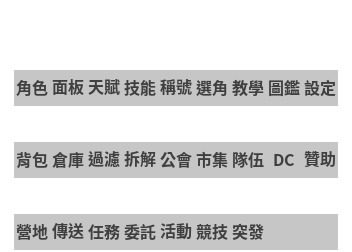
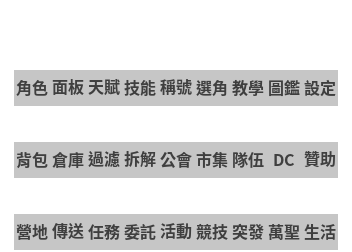
測試加上 Paper API

Changed region(s): [[0.75, 0.8889, 0.9688, 0.9722]]

diff --git a/src/main/java/tw/exilecore/life/LifeRaftMenu.java b/src/main/java/tw/exilecore/life/LifeRaftMenu.java
@@ -1,0 +1,283 @@
+package tw.exilecore.life;
+
+import org.bukkit.Material;
+import org.bukkit.OfflinePlayer;
+import org.bukkit.Sound;
+import org.bukkit.entity.Player;
+import org.bukkit.event.inventory.ClickType;
+import org.bukkit.event.inventory.InventoryClickEvent;
+import org.bukkit.inventory.ItemStack;
+import org.bukkit.inventory.meta.SkullMeta;
+import tw.exilecore.ExileCore;
+import tw.exilecore.gui.Menu;
+import tw.exilecore.item.ItemRenderer;
+
+import java.util.ArrayList;
+import java.util.HashMap;
+import java.util.List;
+import java.util.Map;
+import java.util.UUID;
+
+/**
+ * 木筏管理（2026-10-16）：共用成員（加、拿掉）、現在在筏上的人（加成員、請離開）、可以去的筏（自己的、共用的）、
+ * 線上的人（邀請、加成員）。跟 /sea invite／visit／kick／member 做的事一樣，只是不用打指令。
+ */
+final class LifeRaftMenu extends Menu {
+
+    private static final int SLOT_INFO = 4;
+    private static final int ROW_MEMBERS = 9;
+    private static final int ROW_CREW = 18;
+    private static final int ROW_RAFTS = 27;
+    private static final int ROW_ONLINE = 36;
+    private static final int PER_ROW = 8;
+    private static final int MAX_MEMBERS = 8;
+
+    private final LifeService service;
+    private final Map<Integer, Runnable> left = new HashMap<>();
+    private final Map<Integer, Runnable> right = new HashMap<>();
+    private final Map<Integer, Runnable> shiftLeft = new HashMap<>();
+    private final Map<Integer, Runnable> shiftRight = new HashMap<>();
+    private int page;
+
+    LifeRaftMenu(final ExileCore plugin, final Player player, final LifeService service) {
+        super(plugin, player, 6, "<dark_gray>木筏管理");
+        this.service = service;
+    }
+
+    private String color() {
+        return service.config().color();
+    }
+
+    private static ItemStack head(final OfflinePlayer owner, final String name, final List<String> lore) {
+        final ItemStack stack = icon(Material.PLAYER_HEAD, name, lore);
+        stack.editMeta(SkullMeta.class, meta -> meta.setOwningPlayer(owner));
+        return stack;
+    }
+
+    private void report(final String problem, final String done) {
+        if (problem != null) {
+            player.sendMessage(plugin.text().prefixed("<red>" + ItemRenderer.escape(problem)));
+            player.playSound(player.getLocation(), Sound.BLOCK_NOTE_BLOCK_BASS, 0.6f, 0.8f);
+        } else if (done != null) {
+            player.sendMessage(plugin.text().prefixed("<green>" + ItemRenderer.escape(done)));
+            player.playSound(player.getLocation(), Sound.ENTITY_EXPERIENCE_ORB_PICKUP, 0.6f, 1.4f);
+        }
+    }
+
+    @Override
+    protected void draw() {
+        frame();
+        left.clear();
+        right.clear();
+        shiftLeft.clear();
+        shiftRight.clear();
+        final LifeService.Profile profile = service.profile(player);
+        final int own = profile == null ? -1 : profile.plot;
+        final int here = service.activePlot(player);
+        final boolean onSea = service.world() != null && service.world().equals(player.getWorld());
+        final boolean canManageHere = onSea && here >= 0 && service.canBuild(player, profile, here);
+        final Map<UUID, String> members = own < 0 ? Map.of() : service.membersOf(own);
+
+        // ---- 最上面：這塊筏 ----
+        final List<String> info = new ArrayList<>();
+        if (own < 0) {
+            info.add("<gray>你還沒有木筏：先到「前往我的木筏」去一次");
+        } else {
+            final int size = service.config().raftSize(service.plotLevel(own));
+            info.add("<gray>你的木筏：<white>" + size + "×" + size);
+            info.add("<gray>共用成員 <white>" + members.size() + "</white>／" + MAX_MEMBERS);
+        }
+        if (onSea && here >= 0) {
+            info.add("<gray>現在在 <white>" + ItemRenderer.escape(service.ownerName(here)) + "</white> 的木筏上"
+                    + (here == own ? "" : canManageHere ? " <dark_gray>（你是共用成員）" : " <dark_gray>（訪客）"));
+            info.add("<gray>筏上 <white>" + service.crewOn(here).size() + "</white> 個人");
+        } else {
+            info.add("<dark_gray>你現在不在海上");
+        }
+        info.add("");
+        info.add("<gray>共用成員：可以蓋、拆、收網、種田、掌舵、邀請別人");
+        info.add("<gray>訪客：只能看、撈東西，不能動筏");
+        set(SLOT_INFO, icon(Material.OAK_BOAT, "<" + color() + ">木筏管理", info));
+
+        // ---- 共用成員 ----
+        set(ROW_MEMBERS, rowLabel(Material.WRITABLE_BOOK, "共用成員", "你的木筏的共用成員（最多 " + MAX_MEMBERS + " 個）",
+                "左鍵：去他現在待的筏", "Shift＋右鍵：拿掉"));
+        int slot = ROW_MEMBERS + 1;
+        for (final Map.Entry<UUID, String> member : members.entrySet()) {
+            if (slot >= ROW_MEMBERS + 1 + PER_ROW) {
+                break;
+            }
+            final UUID id = member.getKey();
+            final String name = member.getValue();
+            final Player online = plugin.getServer().getPlayer(id);
+            set(slot, head(plugin.getServer().getOfflinePlayer(id), "<white>" + ItemRenderer.escape(name),
+                    List.of(online == null ? "<dark_gray>離線" : "<green>線上", "", "<yellow>左鍵：去他現在待的筏", "<red>Shift＋右鍵：拿掉共用成員")));
+            left.put(slot, () -> {
+                player.closeInventory();
+                report(service.visit(player, id, name), null);
+            });
+            shiftRight.put(slot, () -> {
+                final String problem = service.removeMember(player, id, name);
+                report(problem, problem == null ? name + " 不再是共用成員了" : null);
+                if (problem == null && online != null) {
+                    online.sendMessage(plugin.text().prefixed("<gray>" + ItemRenderer.escape(player.getName()) + " 把你從木筏的共用成員拿掉了"));
+                }
+                redraw();
+            });
+            slot++;
+        }
+        if (members.isEmpty()) {
+            set(ROW_MEMBERS + 1, icon(Material.LIGHT_GRAY_STAINED_GLASS_PANE, "<gray>還沒有共用成員", "<gray>在下面「線上的人」Shift＋左鍵加"));
+        }
+
+        // ---- 現在在筏上的人 ----
+        set(ROW_CREW, rowLabel(Material.SPYGLASS, "在這塊筏上", "現在跟你在同一塊筏上的人",
+                "Shift＋左鍵：加成共用成員（筏主）", "Shift＋右鍵：請他離開（筏主、共用成員）"));
+        slot = ROW_CREW + 1;
+        if (onSea && here >= 0) {
+            for (final Player other : service.crewOn(here)) {
+                if (other.equals(player) || slot >= ROW_CREW + 1 + PER_ROW) {
+                    continue;
+                }
+                final LifeService.Profile otherProfile = service.profile(other);
+                final boolean ownerOfHere = otherProfile != null && otherProfile.plot == here;
+                final boolean member = service.membersOf(here).containsKey(other.getUniqueId());
+                final List<String> lore = new ArrayList<>();
+                lore.add(ownerOfHere ? "<" + color() + ">筏主" : member ? "<green>共用成員" : "<gray>訪客");
+                lore.add("");
+                if (here == own && !ownerOfHere && !member) {
+                    lore.add("<yellow>Shift＋左鍵：加成共用成員");
+                    shiftLeft.put(slot, () -> addMember(other));
+                }
+                if (canManageHere && !ownerOfHere) {
+                    lore.add("<red>Shift＋右鍵：請他離開這塊筏");
+                    shiftRight.put(slot, () -> {
+                        report(service.kick(player, other), other.getName() + " 離開這塊筏了");
+                        redraw();
+                    });
+                }
+                set(slot, head(other, "<white>" + ItemRenderer.escape(other.getName()), lore));
+                slot++;
+            }
+        }
+        if (slot == ROW_CREW + 1) {
+            set(slot, icon(Material.LIGHT_GRAY_STAINED_GLASS_PANE, "<gray>沒有別人", onSea ? "<gray>筏上只有你" : "<gray>你現在不在海上"));
+        }
+
+        // ---- 可以去的筏 ----
+        set(ROW_RAFTS, rowLabel(Material.COMPASS, "可以去的筏", "自己的、你是共用成員的", "左鍵：前往"));
+        slot = ROW_RAFTS + 1;
+        set(slot, icon(Material.OAK_BOAT, "<#7fd4ff>我的木筏", own < 0 ? "<gray>還沒去過：左鍵建立" : "<gray>回自己的筏", "", "<yellow>左鍵：前往"));
+        left.put(slot, () -> {
+            player.closeInventory();
+            report(service.travel(player, false), null);
+        });
+        slot++;
+        for (final int plot : service.memberOf(player.getUniqueId())) {
+            if (slot >= ROW_RAFTS + 1 + PER_ROW) {
+                break;
+            }
+            final UUID owner = service.ownerOf(plot);
+            if (owner == null) {
+                continue;
+            }
+            final String name = service.ownerName(plot);
+            final int size = service.config().raftSize(service.plotLevel(plot));
+            set(slot, head(plugin.getServer().getOfflinePlayer(owner), "<white>" + ItemRenderer.escape(name) + " 的木筏",
+                    List.of("<gray>" + size + "×" + size + "；你是共用成員", "", "<yellow>左鍵：前往")));
+            left.put(slot, () -> {
+                player.closeInventory();
+                report(service.travelTo(player, plot, null), null);
+            });
+            slot++;
+        }
+
+        // ---- 線上的人（邀請、加成員） ----
+        final List<Player> online = new ArrayList<>();
+        for (final Player other : plugin.getServer().getOnlinePlayers()) {
+            if (!other.equals(player) && service.canEnter(other)) {
+                online.add(other);
+            }
+        }
+        online.sort((a, b) -> a.getName().compareToIgnoreCase(b.getName()));
+        final int pages = Math.max(1, (online.size() + PER_ROW - 1) / PER_ROW);
+        page = Math.max(0, Math.min(page, pages - 1));
+        set(ROW_ONLINE, rowLabel(Material.PLAYER_HEAD, "線上的人", "能進" + service.config().name() + "的線上玩家",
+                "左鍵：邀請到你待的這塊筏", "Shift＋左鍵：加成你的木筏的共用成員"));
+        slot = ROW_ONLINE + 1;
+        for (int i = page * PER_ROW; i < Math.min(online.size(), (page + 1) * PER_ROW); i++) {
+            final Player other = online.get(i);
+            final boolean member = members.containsKey(other.getUniqueId());
+            final List<String> lore = new ArrayList<>();
+            if (member) {
+                lore.add("<green>已經是你的共用成員");
+            }
+            lore.add("");
+            if (canManageHere) {
+                lore.add("<yellow>左鍵：邀請到這塊筏");
+                left.put(slot, () -> report(service.invite(player, other), "邀請送出了：" + other.getName() + " 點訊息裡的 [前往] 就會過來"));
+            } else {
+                lore.add("<dark_gray>要在自己的筏（或共用的筏）上才能邀請");
+            }
+            if (!member && own >= 0) {
+                lore.add("<yellow>Shift＋左鍵：加成共用成員");
+                shiftLeft.put(slot, () -> addMember(other));
+            }
+            set(slot, head(other, "<white>" + ItemRenderer.escape(other.getName()), lore));
+            slot++;
+        }
+        if (online.isEmpty()) {
+            set(ROW_ONLINE + 1, icon(Material.LIGHT_GRAY_STAINED_GLASS_PANE, "<gray>沒有別人在線上"));
+        }
+        if (pages > 1) {
+            set(SLOT_PREV, pageButton(false, page, pages));
+            set(SLOT_NEXT, pageButton(true, page, pages));
+        }
+        set(SLOT_BACK, backButton(service.config().name()));
+        set(SLOT_HELP, helpButton(List.of(
+                "<gray>同樣的事也可以打指令：",
+                "<gray>/sea invite 玩家　邀請別人來你待的筏",
+                "<gray>/sea visit 玩家　去隊友、共用、邀請你的人的筏",
+                "<gray>/sea kick 玩家　請人離開這塊筏",
+                "<gray>/sea member add|remove 玩家　共用成員",
+                "<gray>/sea members　列出共用成員",
+                "<gray>同一隊的人可以直接去彼此的筏")));
+        set(SLOT_CLOSE_BAR, closeButton());
+    }
+
+    private void addMember(final Player other) {
+        final String problem = service.addMember(player, other.getUniqueId(), other.getName());
+        report(problem, problem == null ? other.getName() + " 成了你的木筏的共用成員：可以蓋、拆、收網、種田、掌舵" : null);
+        if (problem == null) {
+            other.sendMessage(plugin.text().prefixed("<" + color() + ">" + ItemRenderer.escape(player.getName())
+                    + " 把你加成木筏的共用成員<gray>（/sea visit " + ItemRenderer.escape(player.getName()) + " 直接去）"));
+        }
+        redraw();
+    }
+
+    @Override
+    protected void onClick(final int slot, final ClickType click, final InventoryClickEvent event) {
+        if (slot == SLOT_CLOSE_BAR) {
+            goBack();
+            return;
+        }
+        if (slot == SLOT_BACK) {
+            new LifeMenu(plugin, player, service).open();
+            return;
+        }
+        if (slot == SLOT_PREV || slot == SLOT_NEXT) {
+            page += slot == SLOT_NEXT ? 1 : -1;
+            redraw();
+            return;
+        }
+        if (!acceptAction(click)) {
+            return;
+        }
+        final Runnable action = click.isShiftClick()
+                ? (click.isLeftClick() ? shiftLeft.get(slot) : click.isRightClick() ? shiftRight.get(slot) : null)
+                : (click.isLeftClick() ? left.get(slot) : click.isRightClick() ? right.get(slot) : null);
+        if (action != null) {
+            action.run();
+        }
+    }
+}

diff --git a/src/main/java/tw/exilecore/life/LifeMenu.java b/src/main/java/tw/exilecore/life/LifeMenu.java
@@ -27,6 +27,7 @@ public final class LifeMenu extends Menu {
     private static final int FIRST_RECIPE = 27;
     private static final int SLOT_DRINK = 22;
     private static final int SLOT_FOOD = 24;
+    private static final int SLOT_RAFT = 20;   // 2026-10-16：木筏管理
 
     private final LifeService service;
     private final Map<Integer, LifeConfig.Recipe> shown = new HashMap<>();
@@ -108,6 +109,9 @@ public final class LifeMenu extends Menu {
         final String food = service.foodStatus(player);
         set(SLOT_FOOD, icon(Material.COOKED_COD, "<#ffb46b>料理", food == null ? "<gray>現在沒有料理的效果" : "<green>" + ItemRenderer.escape(food),
                 "<gray>在筏上的烤爐、料理台做；右鍵吃", "<gray>同時只有一種（吃新的蓋掉舊的）"));
+        final int members = service.profile(player) == null || service.profile(player).plot < 0 ? 0 : service.membersOf(service.profile(player).plot).size();
+        set(SLOT_RAFT, icon(Material.PLAYER_HEAD, "<#f5b942>木筏管理", "<gray>共用成員 <white>" + members + "</white>／8",
+                "<gray>邀請、加共用成員、請人離開、去共用的筏", "", "<yellow>左鍵：打開"));
         set(SLOT_DRINK, icon(Material.POTION, "<#7fd4ff>喝一份淡水", "<gray>有 " + service.material(player, config.freshWater()) + " 份；精力 +"
                 + config.drinkStamina(), "<dark_gray>淡水、料理一天最多回 " + config.dailyRestore() + " 點精力", "", "<yellow>左鍵：喝"));
         for (final LifeConfig.Recipe recipe : config.recipes()) {
@@ -193,6 +197,10 @@ public final class LifeMenu extends Menu {
             if (problem != null) {
                 player.sendMessage(plugin.text().prefixed("<red>" + ItemRenderer.escape(problem)));
             }
+            return;
+        }
+        if (slot == SLOT_RAFT) {
+            new LifeRaftMenu(plugin, player, service).open();
             return;
         }
         if (slot == SLOT_DRINK) {

diff --git a/tools/menu_labels.py b/tools/menu_labels.py
@@ -20,7 +20,7 @@ LAYOUTS = {
     "main": {
         1: ["角色", "面板", "天賦", "技能", "稱號", "選角", "教學", "圖鑑", "設定"],
         3: ["背包", "倉庫", "過濾", "拆解", "公會", "市集", "隊伍", "DC", "贊助"],
-        5: ["營地", "傳送", "任務", "委託", "活動", "競技", "突發", "", ""],
+        5: ["營地", "傳送", "任務", "委託", "活動", "競技", "突發", "萬聖", "生活"],   # 2026-10-16：節慶（萬燈夜）、星骸之海
     },
     # 贊助選單（2026-10，SponsorMenus.Main.LABELLED）：買東西的（擴充、改名卡、全服加倍、抽獎箱）收在「星城」（星幣商城）裡
     "sponsor": {

diff --git a/src/main/java/tw/exilecore/life/LifeService.java b/src/main/java/tw/exilecore/life/LifeService.java
@@ -540,6 +540,11 @@ public final class LifeService {
         return name == null ? "?" : name;
     }
 
+    /** 筏主（2026-10-16，木筏管理選單用）；沒人 null。 */
+    UUID ownerOf(final int plot) {
+        return plotOwners.get(plot);
+    }
+
     /** 這個人的筏（分過的；沒分過 -1）。 */
     private int plotOf(final UUID owner) {
         final Profile profile = profiles.get(owner);
